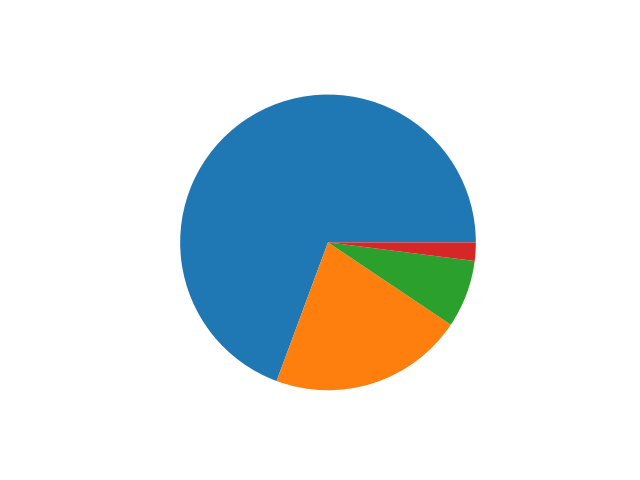
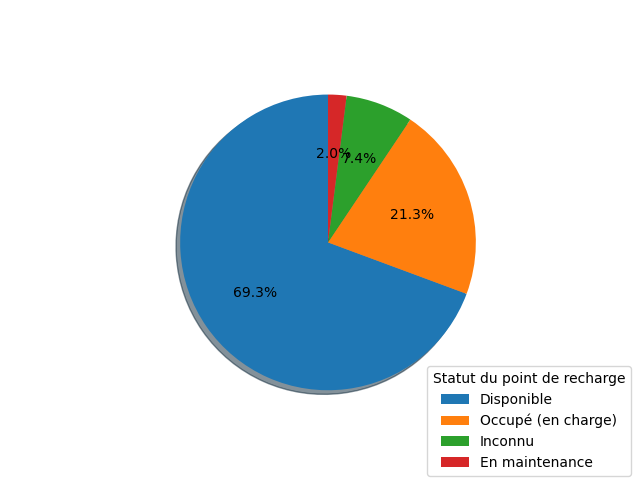
commit updat Rapport

diff --git a/fileCalculStat.py b/fileCalculStat.py
@@ -1,5 +1,6 @@
 import pandas as pd
 import matplotlib.pyplot as plt
+import os
 
 
 
@@ -37,15 +38,24 @@ class CalculStat():
         return self.data[item].value_counts().mean()
     
     def diaCirculaire(self,item):
-        """_summary_
+        """Descristion
 
         Args:
             item (string): _description_
-        """
-        plt.pie(self.data[item].value_counts())
-        plt.savefig("DiaCirculaire_"+item+".png")
 
-    def resumeItem(self,item,value,item2):
+        Returns:
+            String: chemin de l'image du diagramme
+        """
+        namefile = "DiaCirculaire_"+item+".png"
+
+        plt.pie(self.data[item].value_counts(),autopct='%1.1f%%',shadow=True, startangle=90)
+        #self.data[item].value_counts().plot(kind='pie')
+        plt.legend(self.data[item].value_counts().index.tolist(),title=item,loc="lower left",bbox_to_anchor=(0.75, -0.15, 1, 1.5))
+        plt.savefig(namefile)
+        return os.path.join(os.path.dirname(__file__), namefile)
+        
+
+    def resumeItemByVar(self,item,value,item2):
         """_summary_
 
         Args:
@@ -55,5 +65,6 @@ class CalculStat():
         """
         data10 = self.data.loc[self.data[item] == value]
         data10[item2].value_counts()
-        
-    
+
+    def resumeItem(self,item):
+        return self.data[item].value_counts().to_dict()

diff --git a/fileReportPdf.py b/fileReportPdf.py
@@ -42,25 +42,27 @@ class ReportPdf(FPDF):
         # Background color
         self.set_fill_color(200, 220, 255)
         # Title
-        self.cell(0, 6, 'Chapter %d : %s' % (num, label), 0, 1, 'L', 1)
+        self.cell(0, 6, 'Partie %d : %s' % (num, label), 0, 1, 'L', 1)
         # Line break
         self.ln(4)
 
-    def chapter_body(self, txt):
+    def chapter_body(self, data):
+        print(data)
         # Read text file
         #with open(name, 'rb') as fh:
         #    txt = fh.read().decode('latin-1')
         # Times 12
         self.set_font('Times', '', 12)
         # Output justified text
-        self.multi_cell(0, 5, txt)
+        #self.multi_cell(0, 5, data.get('Nombre d\'items'))
         # Line break
         self.ln()
         # Mention in italics
-        self.set_font('Arial', 'I')
-        self.cell(0, 5, '(end of excerpt)')
+        #self.set_font('Arial', 'I')
+        #self.cell(0, 5, data['Statut_point_charge']['path_diag'])
+       # self.image()
 
-    def print_chapter(self, num, title_chapter, name):
+    def print_chapter(self, num, title_chapter, data):
         self.add_page()
         self.chapter_title(num, title_chapter)
-        self.chapter_body(name)
+        self.chapter_body(data)

diff --git a/main.py b/main.py
@@ -15,7 +15,9 @@ if __name__ == '__main__':
     stat = CalculStat(file_csv)
     dist_data = stat.contenuFile()
     dist_data["moyenne general"] = stat.meanByItem("CodePostale")
-    stat.diaCirculaire('Statut du point de recharge')
+    dist_data["Statut_point_charge"] = {}
+    dist_data["Statut_point_charge"]["path_diag"]=stat.diaCirculaire('Statut du point de recharge')
+    dist_data["Statut_point_charge"]["resume"] = stat.resumeItem('Statut du point de recharge')
     # Création du fichier data.json 
     lib.fichierData(dist_data)
    
@@ -23,7 +25,7 @@ if __name__ == '__main__':
     pdf = ReportPdf()
     #pdf.set_author('Jules Verne')
     pdf.title = 'Rapport annuel des bornes autolib Paris'
-    pdf.print_chapter(1, 'A RUNAWAY REEF', '20k_c1.txt')
+    pdf.print_chapter(1, 'VUE GENERALE', dist_data)
     pdf.print_chapter(2, 'THE PROS AND CONS', '20k_c2.txt')
     pdf.output('Rapport_annuel.pdf', 'F')
 
